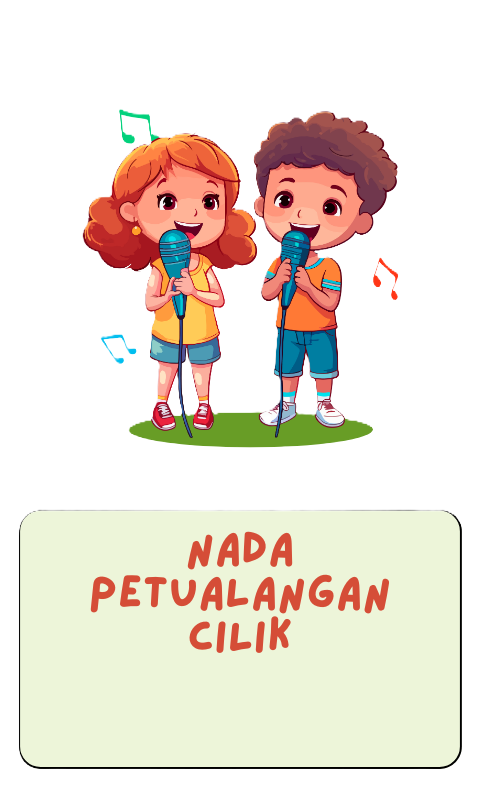
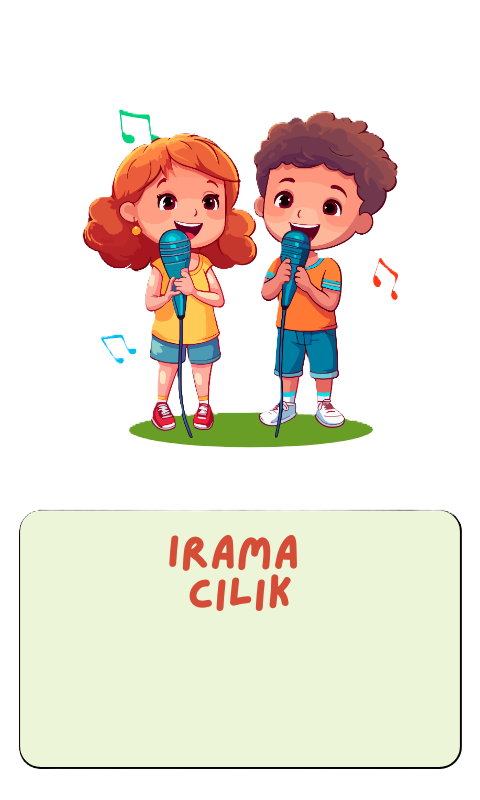
Refactor button size handling and update app title and button size

Changed region(s): [[0.1875, 0.6562, 0.8125, 0.8125]]

diff --git a/pages/main_menu.py b/pages/main_menu.py
@@ -27,11 +27,11 @@ class MainMenuScreen(Screen):
 
         button_play = CustomButton(
             app=app,
-            size_original=280,
+            size_original=290,
             destination="choice_menu",
             source="assets/img/button/play.png",
             pos_hint={'center_x': 0.5, 
-                      'center_y': 0.11},
+                      'center_y': 0.14},
         )
         layout.add_widget(button_play)
     

diff --git a/main.py b/main.py
@@ -28,7 +28,7 @@ Config.set('graphics', 'scroll_thumb_image', 'assets/img/icons/heart.png')
 class MyApp(App):
     def __init__(self, **kwargs):
         super(MyApp, self).__init__(**kwargs)
-        self.title = "Nada Petualang Cilik"
+        self.title = "Irama Cilik"
         self.icon = "assets/img/icon.png"
         
         self.background_sound = SoundLoader.load("assets/sfx/bgm.mp3")
